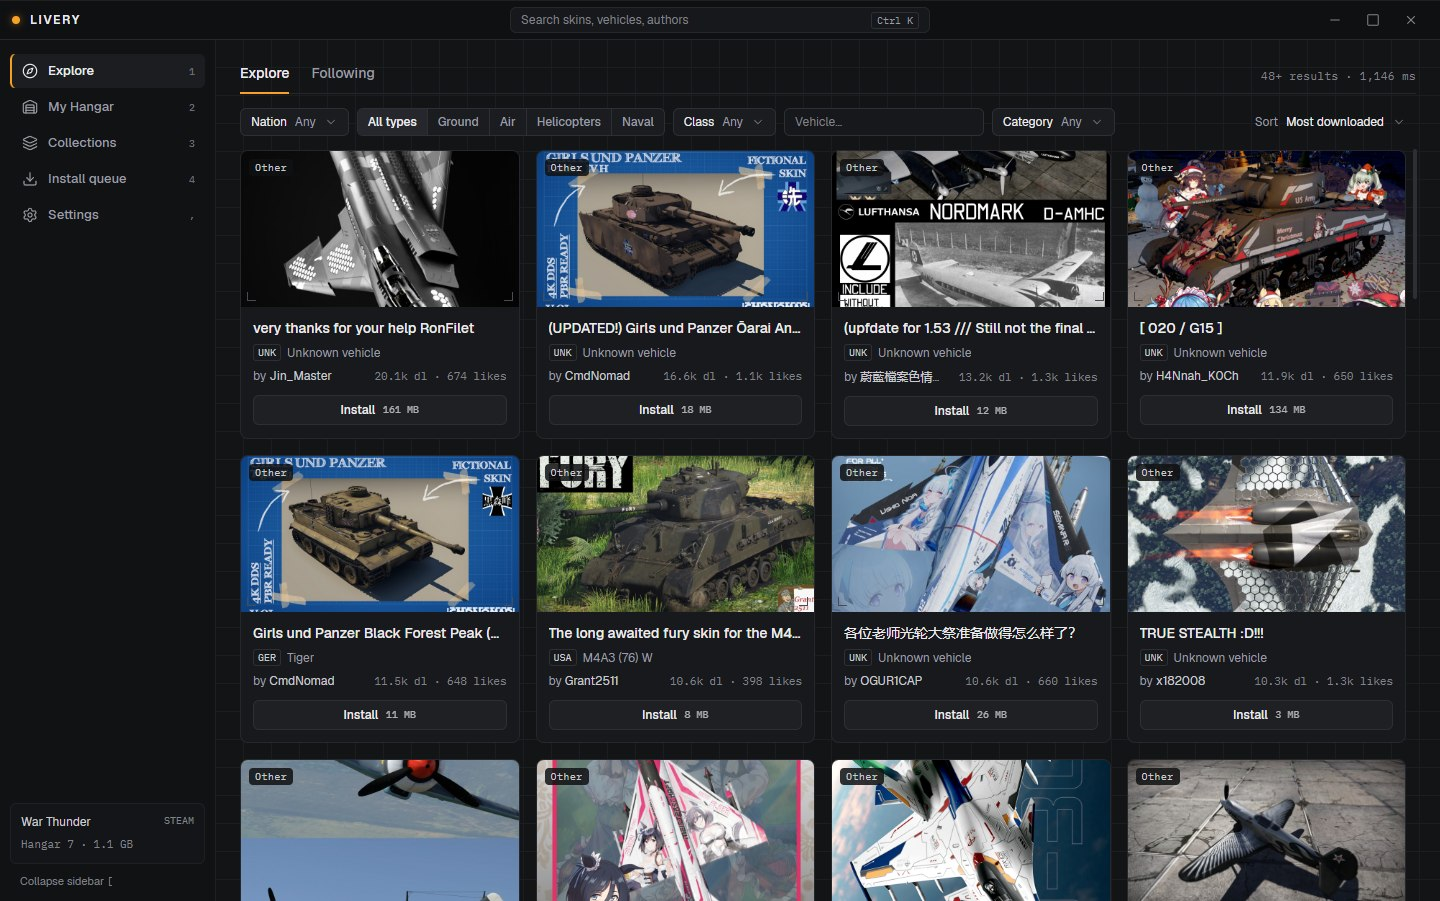
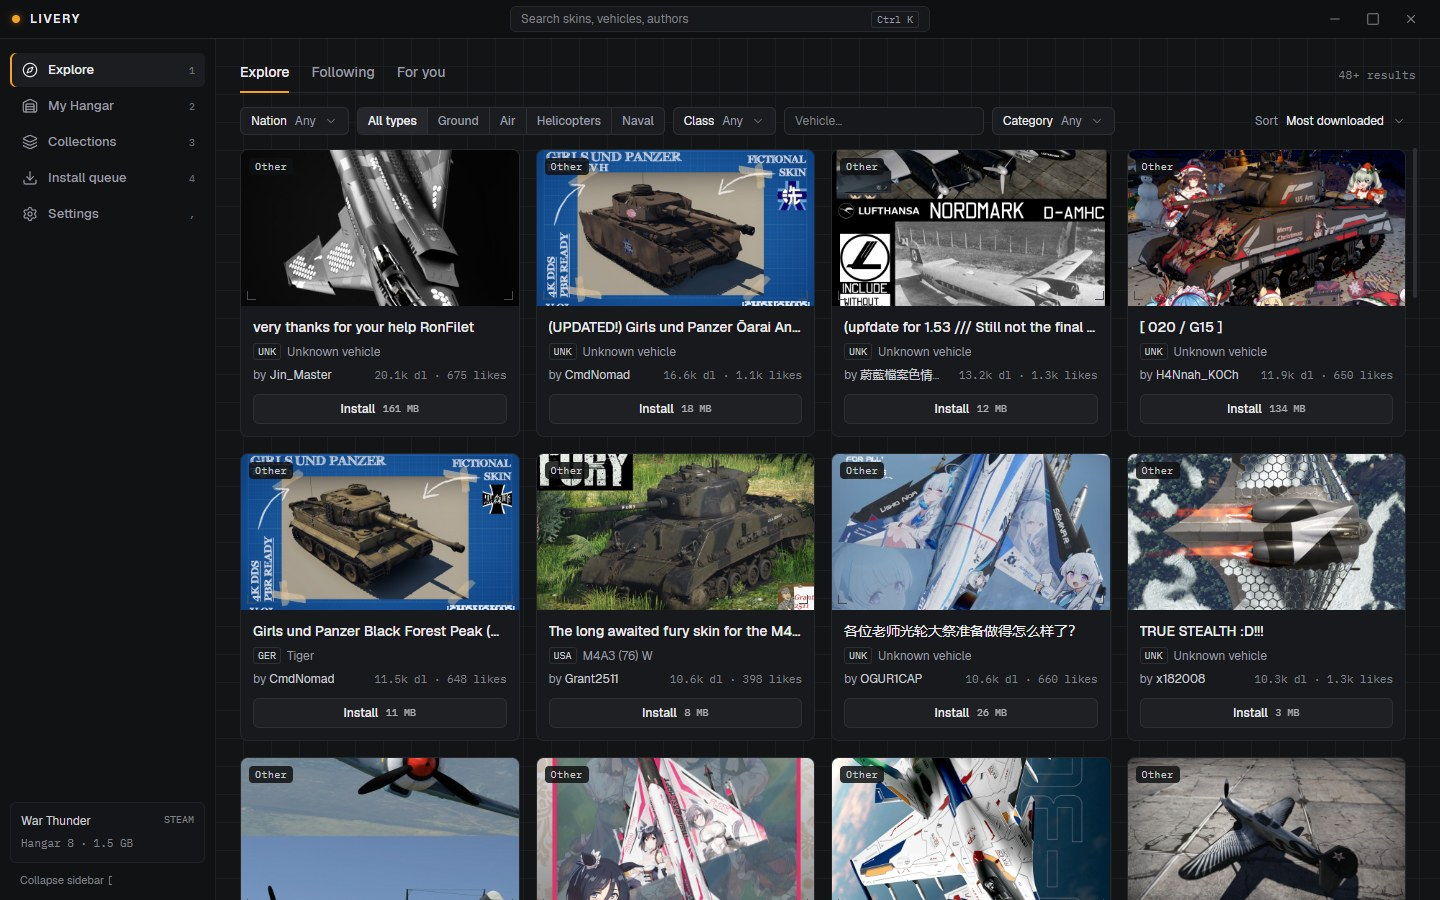
docs: README screenshots with For you

diff --git a/README.md b/README.md
@@ -17,6 +17,8 @@ them with one click, and keep your `UserSkins` folder tidy.
 
 ![Explore: WT Live skins with filters, one-click install](docs/screenshots/explore.jpg)
 
+![For you: skins for the vehicles in your War Thunder lineups, active lineup first](docs/screenshots/foryou.jpg)
+
 ![My Hangar: installed skins with their pictures, grouped by vehicle](docs/screenshots/hangar.jpg)
 
 > **Unofficial tool, not affiliated with Gaijin Entertainment.** War Thunder and WT Live are
